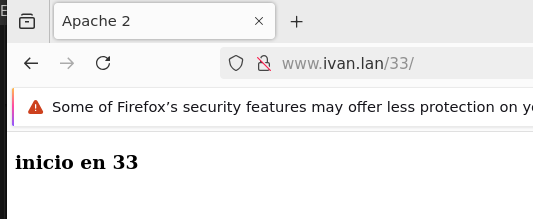
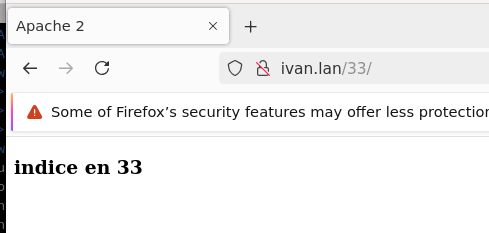
second commit

Changed region(s): [[0.0, 0.0, 1.0, 1.0], [0.4294, 0.2466, 0.7975, 0.3288], [0.5521, 0.0822, 0.5828, 0.1096]]

diff --git a/README.md b/README.md
@@ -2,13 +2,13 @@
 
 Necesitamos ter un nome DNS válido que apunte ao enderezo IP da nosa máquina.  Nesta tarefa, supoñemos que o nome do dominio é equipo.lan, pero necesitarás adaptar ao teu nome DNS.
 
-Configuramos un servidor virtual para www.exemplo.lan (e que tamén responda para exemplo.lan e eq1.exemplo.lan). monta o directorio exemplo.lan en  en /opt/web/exemplo.lan
+Configuramos un servidor virtual para www.ivan.lan (e que tamén responda para ivan.lan e eq1.ivan.lan). monta o directorio ivan.lan en  en /opt/web/ivan.lan
 
 Se empregas a máquina virtual de Google Cloud, elixte ti dous dos nomes que teñas ti configurado nun dos teus dominios.
 
-A configuración para o sitio www.exemplo.lan debe ser a seguinte:
+A configuración para o sitio www.ivan.lan debe ser a seguinte:
 
-- O raíz de documentos debe ser /opt/web/exemplo.lan/htdocs. A orde de ficheiros de procura debe ser inicio.html, indice.html e primeiro.html por esta orde. Tendo en conta os ficheiros que hai no directorio raíz, indica que ficheiro se amosa accedendo a http://www.exemplo.lan/, http://www.exemplo.lan/11 e http://www.exemplo.lan/22 explicándoo brevemente, e pegando unha captura de pantalla desde o navegador dun cliente.
+- O raíz de documentos debe ser /opt/web/ivan.lan/htdocs. A orde de ficheiros de procura debe ser inicio.html, indice.html e primeiro.html por esta orde. Tendo en conta os ficheiros que hai no directorio raíz, indica que ficheiro se amosa accedendo a http://www.ivan.lan/, http://www.ivan.lan/11 e http://www.ivan.lan/22 explicándoo brevemente, e pegando unha captura de pantalla desde o navegador dun cliente.
 
   - En http://www.ivan.lan/22 non mostra nada porque non existe ningun ficheiro .html
 
@@ -18,7 +18,7 @@ A configuración para o sitio www.exemplo.lan debe ser a seguinte:
 
     ![imaxes](images/ej1.3.png)
 
-- No host virtual queremos facer que se habiliten as inclusións desde o servidor e se sigan as ligazóns simbólicas. Para probalo, crea unha ligazón simbólica chamado “zz” ao directorio 33 (ámbolos dous dentro do directorio raíz de documentos. Ademais, queremos facer que no directorio 33 a orde de ficheiros de atopar cando se introduce na URL o nome dun directorio, sexa indice.html, inicio.html e primeiro.html. Amosa a configuración establecida e indica razoadamente que ficheiro se debería amosar accedendo a http://www.exemplo.lan/zz e http://www.exemplo.lan/33. Amosa unha captura de pantalla de cada un para demostralo.
+- No host virtual queremos facer que se habiliten as inclusións desde o servidor e se sigan as ligazóns simbólicas. Para probalo, crea unha ligazón simbólica chamado “zz” ao directorio 33 (ámbolos dous dentro do directorio raíz de documentos. Ademais, queremos facer que no directorio 33 a orde de ficheiros de atopar cando se introduce na URL o nome dun directorio, sexa indice.html, inicio.html e primeiro.html. Amosa a configuración establecida e indica razoadamente que ficheiro se debería amosar accedendo a http://www.ivan.lan/zz e http://www.ivan.lan/33. Amosa unha captura de pantalla de cada un para demostralo.
 
     ![imaxes](images/ej2.1.png)
 
@@ -26,8 +26,8 @@ A configuración para o sitio www.exemplo.lan debe ser a seguinte:
 
     ![imaxes](images/ej2.3.png)
 
-- No directorio 33 (dentro do raíz de documentos) queremos engadir a opción para amosar un listado do contido do directorio no caso de se introduza un directorio na URL e que non exista ningún dos ficheiros especificados anteriormente como de procura e tamén deshabilitar a opción de facer ligazóns simbólicas. Crea unha ligazón simbólica dentro dese directorio chamado yy con destino a 44 (dentro do raíz de documentos). Indica a configuración establecida, engade unha captura de pantalla e explica a saída producida para http://www.exemplo.lan/33/yy http://www.exemplo.lan/33/imaxes , http://www.exemplo.lan/44 e http://www.exemplo.lan/22
-- Indica como farías, sen alterar o sistema de ficheiros, para que cando accedamos a http://www.exemplo.lan/datos se acceda ao contido que exista dentro de /opt/web/exemplo.lan/datos. Amosa tamén unta captura de pantalla da URL anterior.
+- No directorio 33 (dentro do raíz de documentos) queremos engadir a opción para amosar un listado do contido do directorio no caso de se introduza un directorio na URL e que non exista ningún dos ficheiros especificados anteriormente como de procura e tamén deshabilitar a opción de facer ligazóns simbólicas. Crea unha ligazón simbólica dentro dese directorio chamado yy con destino a 44 (dentro do raíz de documentos). Indica a configuración establecida, engade unha captura de pantalla e explica a saída producida para http://www.ivan.lan/33/yy http://www.ivan.lan/33/imaxes , http://www.ivan.lan/44 e http://www.ivan.lan/22
+- Indica como farías, sen alterar o sistema de ficheiros, para que cando accedamos a http://www.ivan.lan/datos se acceda ao contido que exista dentro de /opt/web/ivan.lan/datos. Amosa tamén unta captura de pantalla da URL anterior.
 - No directorio 50 (dentro da raíz de documentos), tamén queremos habilitar o traballo con ficheiros .htaccess, pero so queremos habilitar as opcións mínimas necesarias para facer o seguinte dentro dese directorio:
     - A orde de ficheiros a buscar debe ser un.html, dous.html e tres.html nesa orde, e no subdirectorio abc que está dentro de 50 a orde será tres.html, dous.html e un.html
 
